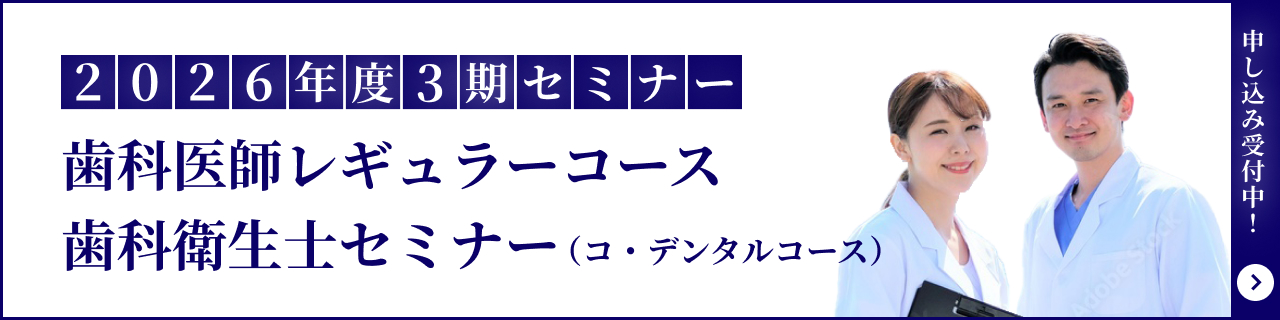
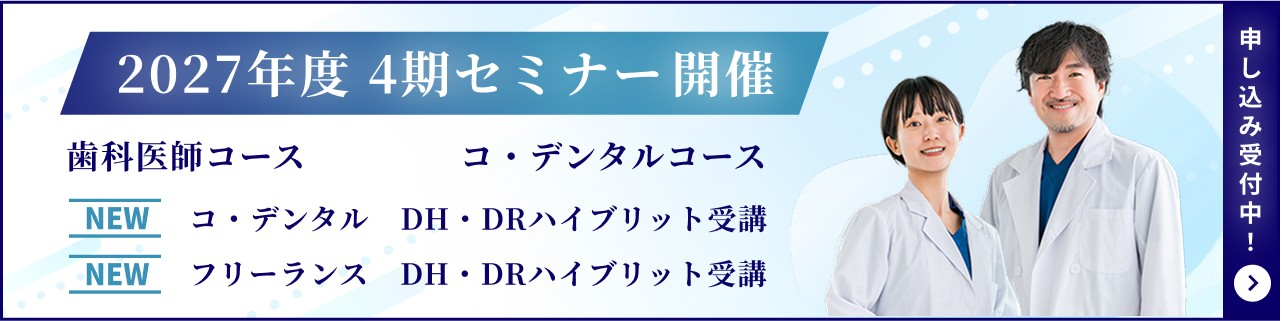
2026.07.10 tokinobu フォームURL・バナー変更

diff --git a/front-page.php b/front-page.php
@@ -14,7 +14,7 @@ Template Name: フロントページ
             <p class="mv_copy_sub">学び続ける。そして、世界へ</p>
         </div>
     </section>
-    <a class="banner-link" href="https://docs.google.com/forms/d/e/1FAIpQLSdg1NscloBA9ecoQT08ePuNNvTNNCQQZ7ReFc1fdsUfi4X4tw/viewform" target="_blank" rel="noopener noreferrer">
+    <a class="banner-link" href="https://docs.google.com/forms/d/e/1FAIpQLSctw2SH7VHnIps4jjwcAPWTOacI4yIKH1L6tYdWY_OFykvG2Q/viewform?usp=send_form" target="_blank" rel="noopener noreferrer">
         <figure class="banner fade-in">
             <picture>
                 <source
@@ -348,7 +348,7 @@ Template Name: フロントページ
                         参加条件：医院開業15年以下・年商5億円以下の方
                     </p>
 
-                    <a href="<?= esc_url(home_url('dentist-course/2026-dt-course/')); ?>" class="c-btn--primary plans_item_btn">
+                    <a href="<?= esc_url(home_url('news/2027-4th-seminar/')); ?>" class="c-btn--primary plans_item_btn">
                         <span class="text">詳しくみる</span>
                     </a>
                 </li>
@@ -382,7 +382,7 @@ Template Name: フロントページ
                         参加条件：臨床の現場で活躍する歯科衛生士の方<span>（※フリーランスとして起業されている方・講師業を行っている方は対象外）</span>
                     </p>
 
-                    <a href=<?= esc_url(home_url('codental-course/2026-dh-course/')); ?> class="c-btn--primary plans_item_btn">
+                    <a href=<?= esc_url(home_url('news/2027-4th-seminar/')); ?> class="c-btn--primary plans_item_btn">
                         <span class="text">詳しくみる</span>
                     </a>
                 </li>

diff --git a/header.php b/header.php
@@ -66,7 +66,7 @@ if (!defined('ABSPATH')) exit;
                     </a>
                 </li>
                 <li class="l-header_menu">
-                    <a href="https://docs.google.com/forms/d/e/1FAIpQLSdg1NscloBA9ecoQT08ePuNNvTNNCQQZ7ReFc1fdsUfi4X4tw/viewform" target="_blank"
+                    <a href="https://docs.google.com/forms/d/e/1FAIpQLSctw2SH7VHnIps4jjwcAPWTOacI4yIKH1L6tYdWY_OFykvG2Q/viewform?usp=send_form" target="_blank"
                         rel="noopener noreferrer">
                         <p>お問い合わせ</p>
                     </a>
@@ -117,7 +117,7 @@ if (!defined('ABSPATH')) exit;
                             </a>
                         </li>
                         <li class="hamburger_menu_contact">
-                            <a href="https://docs.google.com/forms/d/e/1FAIpQLSdg1NscloBA9ecoQT08ePuNNvTNNCQQZ7ReFc1fdsUfi4X4tw/viewform" target="_blank"
+                            <a href="https://docs.google.com/forms/d/e/1FAIpQLSctw2SH7VHnIps4jjwcAPWTOacI4yIKH1L6tYdWY_OFykvG2Q/viewform?usp=send_form" target="_blank"
                                 rel="noopener noreferrer">
                                 <span>お問い合わせ</span>
                             </a>

diff --git a/footer.php b/footer.php
@@ -16,7 +16,7 @@ if (!defined('ABSPATH')) exit;
                     <li><a href="<?= esc_url(home_url('/#teachers')); ?>">講師紹介</a></li>
                     <li><a href="<?= esc_url(home_url('/#plan')); ?>">プラン</a></li>
                     <li><a href="<?= esc_url(home_url('/sponsor')); ?>">協賛企業</a></li>
-                    <li> <a href="https://docs.google.com/forms/d/e/1FAIpQLSdg1NscloBA9ecoQT08ePuNNvTNNCQQZ7ReFc1fdsUfi4X4tw/viewform" target="_blank"
+                    <li> <a href="hthttps://docs.google.com/forms/d/e/1FAIpQLSctw2SH7VHnIps4jjwcAPWTOacI4yIKH1L6tYdWY_OFykvG2Q/viewform?usp=send_form" target="_blank"
                             rel="noopener noreferrer">お問い合わせ</a></li>
                     <li class="is-instagram">
                         <a href="https://www.instagram.com/dentalstudygroupinfinity" target="_blank"

diff --git a/template/contact.php b/template/contact.php
@@ -17,7 +17,7 @@ if (!defined('ABSPATH')) {
         <p class="cta_lead">
             ご質問やご相談など、まずはお気軽にお問い合わせください。
         </p>
-        <a href="https://docs.google.com/forms/d/e/1FAIpQLSdg1NscloBA9ecoQT08ePuNNvTNNCQQZ7ReFc1fdsUfi4X4tw/viewform" target="_blank"
+        <a href="https://docs.google.com/forms/d/e/1FAIpQLSctw2SH7VHnIps4jjwcAPWTOacI4yIKH1L6tYdWY_OFykvG2Q/viewform?usp=send_form" target="_blank"
             rel="noopener noreferrer" class="cta_btn">
             <span class="text">お問い合わせフォーム</span>
         </a>
